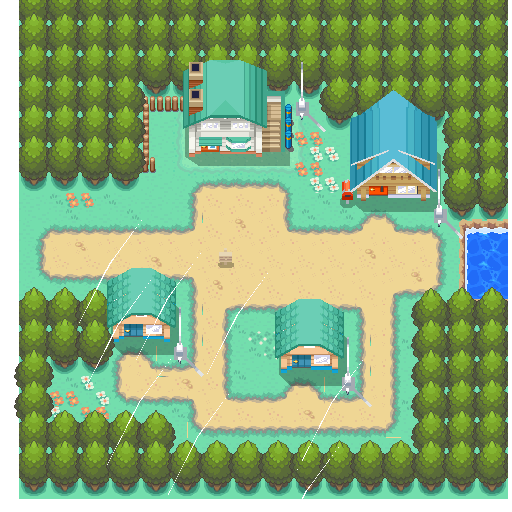
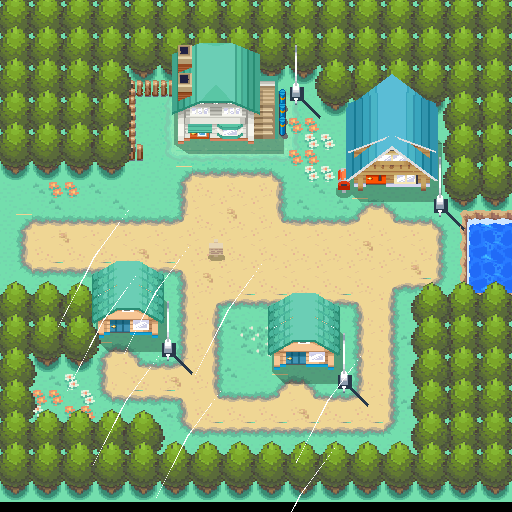
Add --full multi-cell town stitch to hgss_export_town; regen all renders
hgss_export_town.py gains a --full mode (bake_full) that stitches ALL of a
town's matrix cells at fixed scale into one seamless image, so multi-cell
cities render complete instead of just their first cell. Regenerated every
Kanto + Johto town render in assets_3d/<region>/renders/ using --full:
Celadon/Goldenrod/Vermilion/Viridian/etc. now show the whole city. Sinnoh's
Platinum pipeline already stitches full footprints. Docs updated.

Claude-Session: https://claude.ai/code/session_011e1iK5pg62p5LWKeB6qbgJ

diff --git a/tools/hgss_export_town.py b/tools/hgss_export_town.py
@@ -171,8 +171,68 @@ def bake_2d(code, name, texset_idx, out):
           f"({sum(out['collision'])} blocked)")
 
 
+def all_cells_for_code(code):
+    """Every matrix-0 cell (col, row, land_id) that belongs to this map code.
+    Overworld towns can span several cells (e.g. Celadon 2x2, Goldenrod 3x2)."""
+    names = H.map_names()
+    hid = names.index(code)
+    m = H.load_matrix(0)
+    cells = [(i % m["w"], i // m["w"], m["land"][i])
+             for i, h in enumerate(m["headers"]) if h == hid]
+    return cells, hid
+
+
+def bake_full(code, name, texset_idx, out_path=None, S=512):
+    """Render a whole town by stitching ALL its matrix cells at fixed scale, so
+    multi-cell cities render complete (not just their first cell). Each cell is a
+    32-tile / 512-unit footprint centred on its local origin; we place cell
+    (col,row) into its S-px grid slot and share one depth buffer, so cells tile
+    seamlessly and border geometry overlaps naturally."""
+    cells, _ = all_cells_for_code(code)
+    if not cells:
+        c = H.find_map_cell(code)
+        cells = [(c[1], c[2], c[3])]
+    texset = g.find_tex0(H.rip(f"unpacked/a/0/4/4/{texset_idx:04d}.nsbtx"))
+    mincol = min(c[0] for c in cells); minrow = min(c[1] for c in cells)
+    ncol = max(c[0] for c in cells) - mincol + 1
+    nrow = max(c[1] for c in cells) - minrow + 1
+    fb = np.zeros((nrow * S, ncol * S, 4), np.uint8)
+    yb = np.full((nrow * S, ncol * S), -1e9, np.float32)
+    for col, row, land in cells:
+        L = H.load_land(land)
+        terr = g.find_model(L["raw"], L["model_off"]); up = terr.up_scale
+        ox = ((col - mincol) + 0.5) * S - R.HALF_UNITS
+        oy = ((row - minrow) + 0.5) * S - R.HALF_UNITS
+        R._draw_model_triangles(fb, yb, terr, texset, up, ox, oy)
+        for bd in L["buildings"]:
+            d = H.rip(f"{BM}/{bd['model']:04d}.nsbmd")
+            bm = g.find_model(d, 0); btex = g.find_tex0(d); bup = bm.up_scale or 1.0
+            def tf(tri, bd=bd, bup=bup):
+                return [g.Vertex(v.x * bup * bd["sx"] + bd["x"],
+                                 v.y * bup * bd["sy"] + bd["y"],
+                                 v.z * bup * bd["sz"] + bd["z"], v.s, v.t) for v in tri]
+            R._draw_model_triangles(fb, yb, bm, btex, 1.0, ox, oy, transform=tf)
+    out_path = out_path or f"data/unleashed/{name}_full.png"
+    os.makedirs(os.path.dirname(out_path) or ".", exist_ok=True)
+    Image.fromarray(fb, "RGBA").convert("RGB").save(out_path)
+    print(f"baked {out_path}: {len(cells)} cell(s), {ncol}x{nrow} grid, "
+          f"{ncol*S}x{nrow*S}px")
+    return out_path
+
+
 from PIL import ImageDraw
 if __name__ == "__main__":
-    code, name, tset = sys.argv[1], sys.argv[2], int(sys.argv[3])
-    out, land = export(code, name, tset)
-    bake_2d(code, name, tset, out)
+    args = [a for a in sys.argv[1:] if not a.startswith("--")]
+    opts = [a for a in sys.argv[1:] if a.startswith("--")]
+    code, name, tset = args[0], args[1], int(args[2])
+    out_path = None
+    for o in opts:
+        if o.startswith("--out="):
+            out_path = o.split("=", 1)[1]
+    if "--full" in opts:
+        # Whole-town stitched render (all cells). This is the default for the
+        # committed verification renders.
+        bake_full(code, name, tset, out_path)
+    else:
+        out, land = export(code, name, tset)
+        bake_2d(code, name, tset, out)

diff --git a/CLAUDE.md b/CLAUDE.md
@@ -707,11 +707,16 @@ branch: `claude/session-kkc2g3` (NOT main — per the session task instructions)
   renders kept in `assets_3d/<region>/renders/`.
   - Internal town codes: **Kanto = T01–T19, Johto = T20–T31** (Pallet=T01, New
     Bark=T20).
-  - **Known limitation:** `hgss_export_town` renders ONE representative land cell
-    per town, so multi-cell cities (Goldenrod, Cianwood, Cinnabar, Indigo,
-    Blackthorn) preview with black gaps — the *collected assets* contain every
-    cell (manifest lists them); only the preview renderer doesn't stitch
-    neighbors yet. A multi-cell stitch is a straightforward renderer add.
+  - **Multi-cell towns (`--full`):** `hgss_export_town.py <code> <name> <texset>
+    --full [--out=path]` renders a WHOLE town by stitching ALL its matrix-0 cells
+    at a fixed scale — each cell is a 32-tile/512-unit footprint centred on its
+    local origin, placed into its 512px grid slot, sharing one depth buffer, so
+    cells tile seamlessly and border geometry overlaps naturally. Handles any
+    cell count (Celadon 2x2, Goldenrod 3x2, single-cell towns 1x1). **Every
+    committed `renders/` image uses `--full`**, so multi-cell cities show
+    complete (the old single-cell `bake_2d` remains the default when `--full` is
+    omitted). Sinnoh's Platinum pipeline already stitches full footprints, so it
+    never had this issue.
 - **Sinnoh DONE ✅ (`tools/collect_sinnoh_3d.py`):** from the **pokeplatinum
   decomp** (`/home/user/pokeplatinum`), which ships the decoded assets in
   `res/field/` — **no ROM needed**. Chain resolved by `platinum_common.py`
